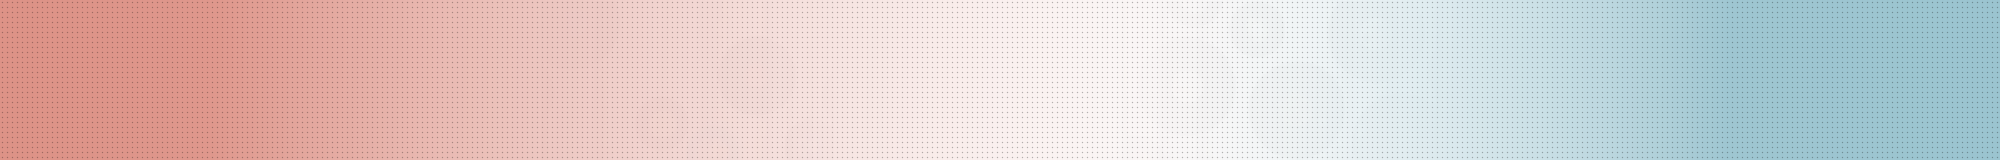
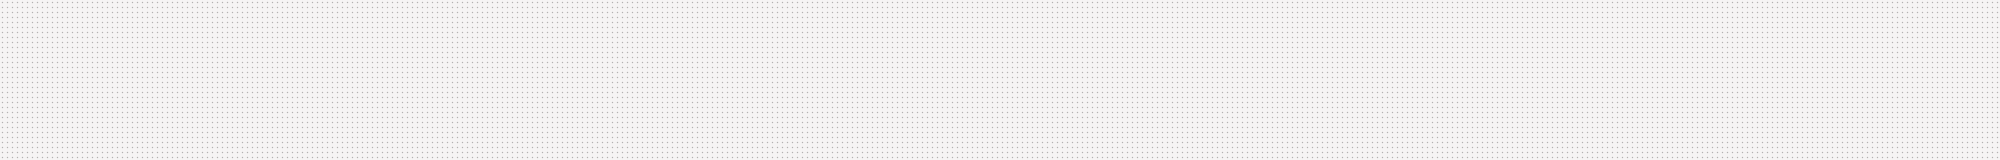
removed home page text, made it smaller. Needs better texts

diff --git a/index.html b/index.html
@@ -23,11 +23,12 @@ project_thumbnails:
 about_text: >
   <p>&nbsp;</p>
   <p>RedHouse is the multi-disciplinary studio of Gijs van Klooster.</p>
-  <p>I want to create a sound image where all music and performance help express the artist's inspiration. When all decisions in sound creation from concept to final master are according to that vision, you can create the best experience.</p>
-  <p><a href="mailto:management@redhouse.nl" target="_top" class="red-link">Get in touch</a> and I will help you with your next project.</p>
+  <p>&nbsp;</p>
+  <p>&nbsp;</p>
+
 studio_section_text: >
-  <p>Imagine, visualize, picture, think, perceive, grasp, appreciate, think of, dream up, devise, form, formulate, design, invent, originate, create, develop, evolve,</p>
-  <p>energizing, thick, light, free, gentle, peaceful, firm, urgent, warm, dynamic, melancholic, simple, elaborate, sophisticated, structured, light, playful, sober, arranged.</p>
+  <p>Imagine, visualize, picture, think, perceive, grasp, appreciate, blend, dream up, devise, form, formulate, design, invent, originate, develop, evolve,</p>
+  <p>Energizing, thick, light, intimate, gentle, peaceful, firm, urgent, warm, dynamic, melancholic, simple, elaborate, sophisticated, structured, light, playful, sober, arranged.</p>
   <p>RedHouse is a performance studio. An intimate studio where musical ideas can be captured without interrupting the flow of the musician.</p>
   <p>Located in Amsterdam, Netherlands.</p>
 ---

diff --git a/css/style.css b/css/style.css
@@ -79,14 +79,14 @@ blockquote{
   color: #E8280B;
   font-family: 'Russo One', sans-serif;
   margin-bottom: 20px;
-  font-size: 32px;
+  font-size: 28px;
 }
 .home-section-hero {
   background-image: url(/img/bg-home-section-1.png);
   background-position: center;
   background-repeat: no-repeat;
   background-size: cover;
-  min-height: 614px;
+  min-height: 500;
   padding: 30px 0;
 }
 .home-section-discography {
@@ -365,7 +365,7 @@ a.project-button {
 }
 .project-role-box {
   color: #D42005;
-  font-size: 15px;
+  font-size: 14px;
 }
 .project-show-all {
   width: fit-content;

diff --git a/discography.md b/discography.md
@@ -5,7 +5,7 @@ title: Discography
 
 ---
 
-My first compositions were recorded on an analogue 4-track recorder. True love never dies they say, and I’m still recording music albeit as a professional. I am working as an independent music producer, composer and mixer in my own RedHouse studio. 
+I want to create a sound image where all music and performance help express the artist's inspiration. When all decisions in sound creation from concept to final master are according to that vision, you can create the best experience.
 
 I had the opportunity to work with some of the greatest artists and producers including: [Erykah Badu](https://erykah-badu.com), [Knalpot](http://www.knalpot.eu), [Avi Adir](../projects/avi-adir-woods-awakening), [Tom Trago](https://www.tomtrago.com), [Tim Palmer](http://timpalmer.com) (David Bowie, U2), [Yoad Nevo](http://yoadnevo.com) (Pet Shop Boys, Sia), [Hans-Martin Buff](https://www.discogs.com/artist/351436-Hans-Martin-Buff) (Prince), [Niklas Paschburg](http://niklaspaschburg.com), [The Flexican](http://www.theflexican.com), [Brownswood](https://brownswoodrecordings.com), [Attie Bauw](http://bauwhaus.com), [Joep Beving](http://joepbeving.com) to name a few.
 

diff --git a/_projects/project0601-OperaSpanga.md b/_projects/project0601-OperaSpanga.md
@@ -28,7 +28,7 @@ project_thumbnails:
   - img: project0601-image07-thumb.png
 ---
 
-Producer Attie Bauw asked me to join him on a journey to Poland where we would record an opera for "Samson et Dalila, the movie" produced by Opera Spanga. We created a 5.1 surround recording of a 120 piece orchestra and choir and lead singers in a booth.
+Producer [Attie Bauw](http://bauwhaus.com) asked me to join him on a journey to Poland where we would record an opera for "Samson et Dalila, the movie" produced by Opera Spanga. We created a 5.1 surround recording of a 120 piece orchestra and choir and lead singers in a booth.
 
 Produced by Opera Spanga (Corina van Eijk en Maartje de Wit) and conducted by David Levi. Recorded in Katowice, Poland.
 
